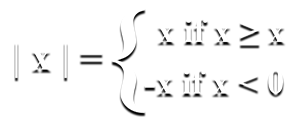
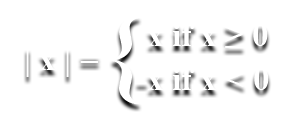
Fixes + The last AV formula image was totally wrong lol + Slowly working on developing practice questions

Changed region(s): [[0.03, 0.075, 0.96, 0.975]]

diff --git a/src/AbsoluteValue.java b/src/AbsoluteValue.java
@@ -5,6 +5,7 @@ import java.nio.file.Files;
 import java.nio.file.Paths;
 import java.util.Timer;
 import java.util.TimerTask;
+import java.util.concurrent.ThreadLocalRandom;
 
 public class AbsoluteValue extends JLayeredPane {
     AbsoluteValue(){
@@ -218,11 +219,14 @@ class AVTimerLabel extends JLabel{
 
 class AVQuestion extends JLabel{
     AVQuestion(){
+        int randomNum = ThreadLocalRandom.current().nextInt(-100, 100 + 1);
+        System.out.println("[AVQuestion] Generated value: " + randomNum);
+
         // Customization
         this.setBounds(100, 50, 700, 300);
         this.setOpaque(true);
         this.setBackground(Color.ORANGE);
-        this.setText("Question");
+        this.setText("<html><p style = \"font-size:8em;\">| " + randomNum + " |</p></html>");
         this.setHorizontalAlignment(JLabel.CENTER);
         this.setForeground(Color.white);
     }
